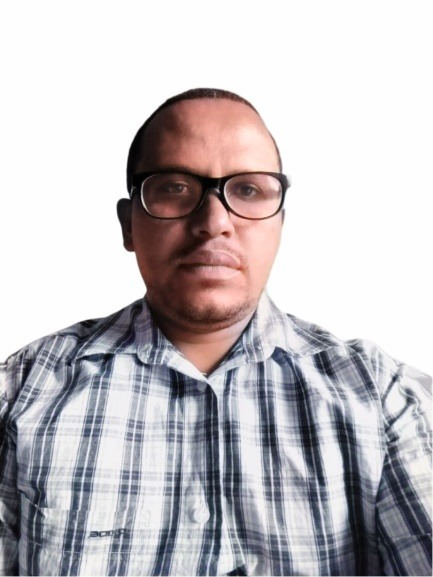
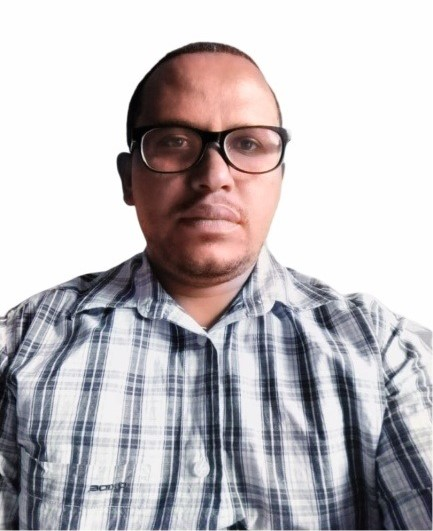
style css updated for responsiveness

diff --git a/index.html b/index.html
@@ -197,7 +197,7 @@
                             <h2>Why Work With Me</h2>
                             <p>I am a great communicator and love to invest the necessary time to understand the customer's problem very well</p>
                             <h5>DESIGN TOOLS</h5>
-                            <p>My favorite design tools are Photoshop and Illustrator but I can create designs in Figma, Sketch and Adobe XD too</p>
+                            <p>My favorite design tools are  Figma, Sketch, Photoshop,Illustrator,Adobe XD</p>
                             <h5>DEVELOPMENT SKILLS</h5>
                             <p>I am familiar and work on a daily basis with HTML, CSS, JavaScript, Bootstrap and other modern frameworks</p>
                             

diff --git a/css/styles.css b/css/styles.css
@@ -631,8 +631,8 @@ input[type='checkbox'] {
 .area-1 img {
 	/* background-color: lightgray; */
 	mix-blend-mode: multiply;
-	width:70%;
-	
+	width:400px;
+	padding: 10%;
 	
 	
 }
@@ -1061,13 +1061,21 @@ a:hover.back-to-top {
 	/* end of general styles */
 
 	/* project image size on desktop */
+	.area-1 img {
+		/* background-color: lightgray; */
+		
+		width:600px;
+		
+		
+		
+	}
 	.basic-3 .image-container img {
 		margin: 0;
 		transition: all 0.2s;
 		width: 60%;
 		height: 500px;
 	}
-
+  
 	/* Navigation */
 	.navbar {
 		padding-top: 1.75rem;
